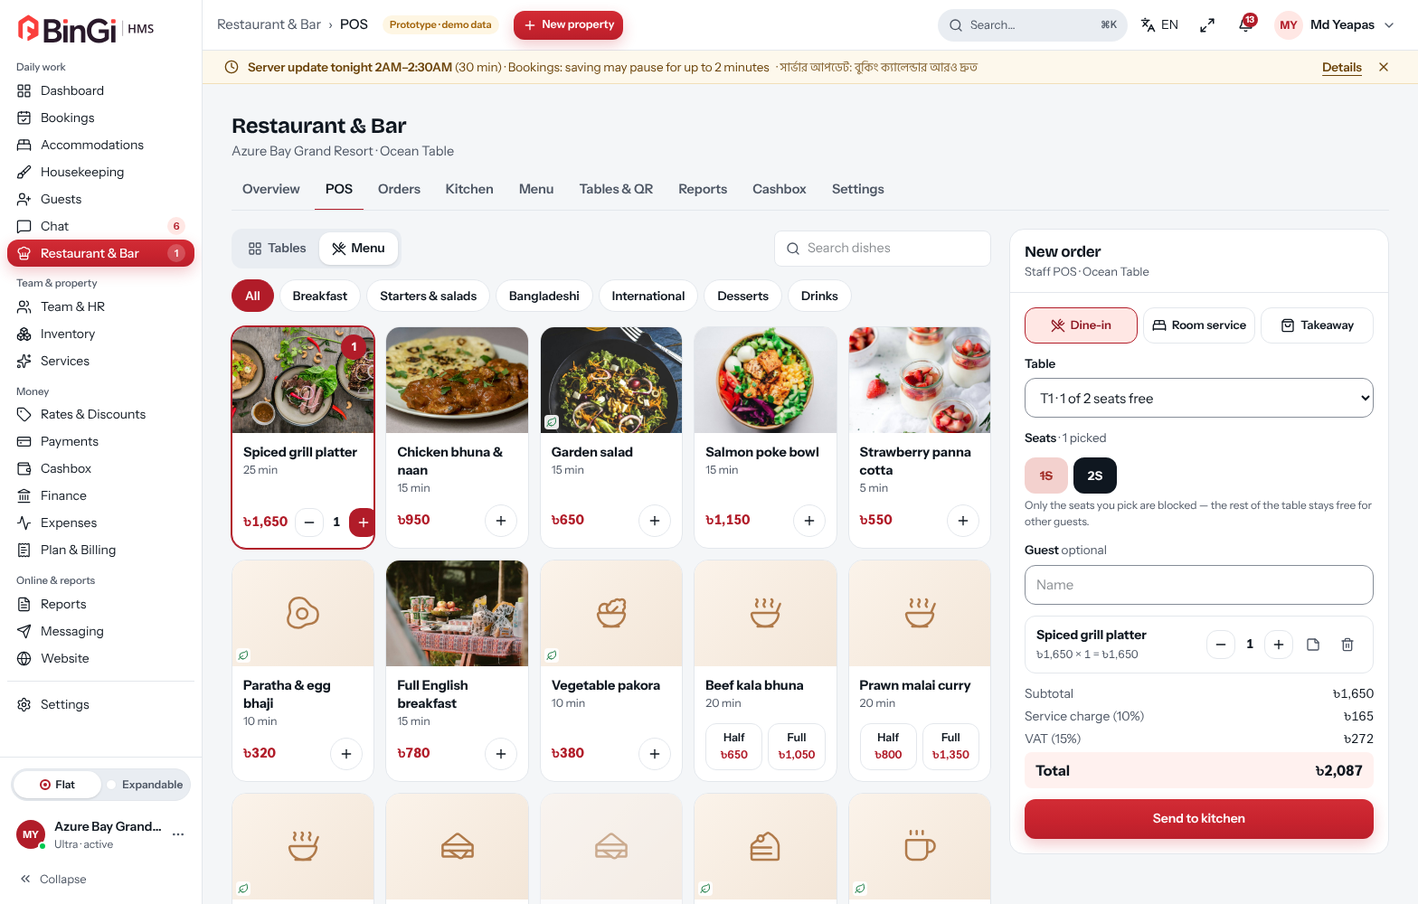
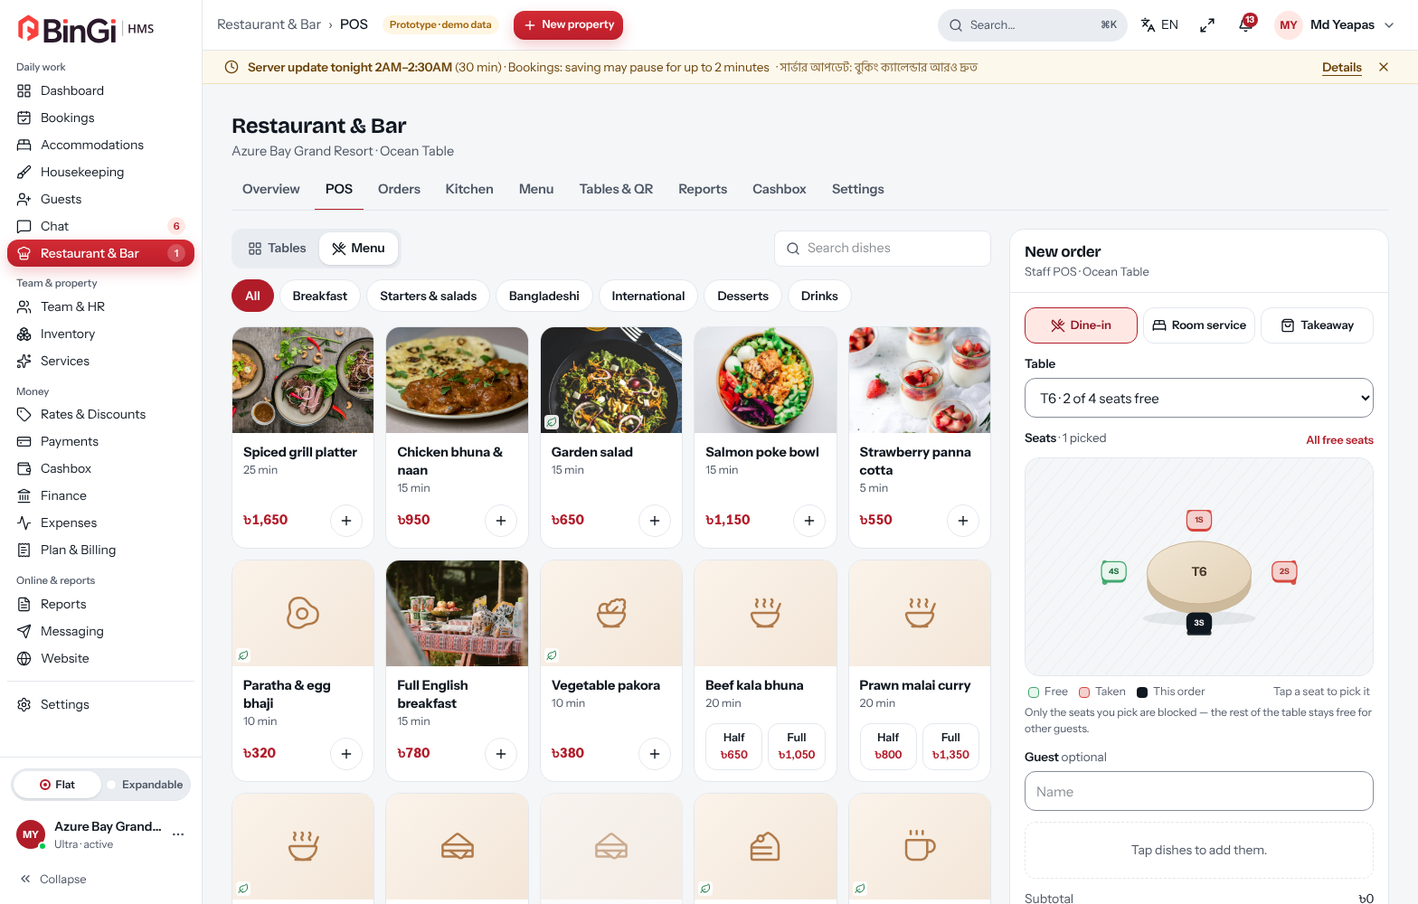
Restaurant: live table drawing (Remotion) — round/long/bar/event tables with coded seats; tap chairs to pick seats in POS; simpler Add table form with live drawing
Claude-Session: https://claude.ai/code/session_01R7iD7nyTUnrEyPYtQ7YvN3

diff --git a/src/components/hms/meals/setup.tsx b/src/components/hms/meals/setup.tsx
@@ -3,13 +3,14 @@
 import clsx from "clsx";
 import { useEffect, useState } from "react";
 import QRCode from "qrcode";
-import { BedDouble, Camera, ImagePlus, Pencil, Plus, QrCode, Search, Trash2, UtensilsCrossed } from "lucide-react";
+import { BedDouble, Camera, Crown, ImagePlus, Martini, Minus, PartyPopper, Pencil, Plus, QrCode, Search, Trash2, Trees, UtensilsCrossed } from "lucide-react";
 import { PLACE_KIND, isSeated, seatCodesOf, sharesSeats, tk, type Category, type Item, type Place, type PlaceKind } from "@/lib/meals/seed";
 import { uid } from "@/lib/meals/store";
 import { PhotoButton } from "../photo";
 import { Sheet, btnLine, btnPrimary, input, lbl } from "../guests/ui";
 import { MealsFrame } from "./frame";
 import { Dish, useRestaurant, useToast, type Restaurant } from "./shared";
+import { SeatLegend, TablePreview } from "./table-preview";
 
 const card = "rounded-2xl border border-hms-line bg-white";
 function Switch({ on, onChange, label }: { on: boolean; onChange: () => void; label: string }) {
@@ -140,6 +141,7 @@ function ItemSheet({ r, it, onClose, onDone }: { r: Restaurant; it?: Item; onClo
 // =================== Tables & QR ===================
 const KIND_LABEL: Record<PlaceKind, string> = Object.fromEntries(Object.entries(PLACE_KIND).map(([k, v]) => [k, v.label])) as Record<PlaceKind, string>;
 type Group = "seated" | "room" | "general";
+const KIND_ICON: Record<PlaceKind, typeof UtensilsCrossed> = { table: UtensilsCrossed, private: Crown, bar: Martini, event: PartyPopper, room: BedDouble, general: Trees };
 const groupOf = (k: PlaceKind): Group => (k === "room" ? "room" : k === "general" ? "general" : "seated");
 export function TablesPage() {
   const r = useRestaurant();
@@ -199,24 +201,34 @@ function PlaceSheet({ r, p, onClose, onDone }: { r: Restaurant; p?: Place; onClo
     <Sheet title={p ? `Edit ${p.name}` : "Add table or QR"} sub="Each table, room or spot gets its own QR" onClose={onClose}
       footer={<><button onClick={onClose} className={clsx(btnLine, "flex-1")}>Cancel</button><button onClick={save} className={clsx(btnPrimary, "flex-[1.4]")}>Save</button></>}>
       <div className="space-y-4">
+        {seated ? <TablePreview kind={f.kind} name={f.name.trim() || "T?"} codes={shown} caption={<><SeatLegend /><span className="tabular-nums">{shown.length} seats · {f.kind === "private" ? "whole table" : sharesSeats({ ...f, shared: f.shared }) ? "shared" : "whole table"}</span></>} />
+          : <div className="flex items-center gap-3 rounded-2xl border border-[#e3e7ec] bg-[#f4f6f8] p-4"><span className="grid size-12 place-items-center rounded-xl bg-white text-hms-muted ring-1 ring-hms-line">{f.kind === "room" ? <BedDouble className="size-6" /> : <Trees className="size-6" />}</span><p className="text-[13.5px] text-[#3a414c]"><b className="block text-[14.5px] text-hms-ink">{f.name.trim() || (f.kind === "room" ? "Room 305" : "Pool side")}</b>{PLACE_KIND[f.kind].hint}. No seats — one QR for the whole {f.kind === "room" ? "room" : "spot"}.</p></div>}
         <div><p className={lbl}>Type</p>
-          <div role="radiogroup" aria-label="Type" className="grid grid-cols-2 gap-2">{(Object.keys(PLACE_KIND) as PlaceKind[]).map((x) => (
-            <button key={x} type="button" role="radio" aria-checked={f.kind === x} onClick={() => setF({ ...f, kind: x, seats: PLACE_KIND[x].seated ? f.seats ?? (x === "bar" ? 6 : 4) : undefined, shared: x !== "private" })}
-              className={clsx("rounded-xl border p-2.5 text-left", f.kind === x ? "border-hms-ink shadow-[inset_0_0_0_1px] shadow-hms-ink" : "border-hms-line hover:border-[#858c97]")}>
-              <b className="block text-[13.5px]">{PLACE_KIND[x].label}</b><span className="text-[12px] leading-snug text-hms-muted">{PLACE_KIND[x].hint}</span>
-            </button>))}</div>
+          <div role="radiogroup" aria-label="Type" className="grid grid-cols-3 gap-1.5">{(Object.keys(PLACE_KIND) as PlaceKind[]).map((x) => { const I = KIND_ICON[x]; return (
+            <button key={x} type="button" role="radio" aria-checked={f.kind === x} title={PLACE_KIND[x].hint} onClick={() => setF({ ...f, kind: x, seats: PLACE_KIND[x].seated ? f.seats ?? (x === "bar" ? 6 : 4) : undefined, shared: x !== "private" })}
+              className={clsx("flex h-[68px] flex-col items-center justify-center gap-1 rounded-xl border text-[12.5px] font-semibold", f.kind === x ? "border-hms-ink bg-white shadow-[inset_0_0_0_1px] shadow-hms-ink" : "border-hms-line text-[#4d5664] hover:border-[#858c97]")}>
+              <I className="size-5" aria-hidden />{PLACE_KIND[x].label.replace(" / VIP table", " / VIP").replace(" table", "")}
+            </button>); })}</div>
+          <p className="mt-1.5 text-[12.5px] text-hms-muted">{PLACE_KIND[f.kind].hint}</p>
         </div>
-        <div><label htmlFor="pl-n" className={lbl}>Name</label><input id="pl-n" autoFocus value={f.name} onChange={(x) => setF({ ...f, name: x.target.value })} placeholder={f.kind === "room" ? "e.g. Room 305" : f.kind === "general" ? "e.g. Pool side" : f.kind === "bar" ? "e.g. Bar" : f.kind === "event" ? "e.g. Banquet hall" : "e.g. T9"} className={input} />{tried && (dup ? <p className="mt-1 text-[13px] font-medium text-[#c81e1e]">This name is already used</p> : !f.name.trim() && <p className="mt-1 text-[13px] font-medium text-[#c81e1e]">Enter a name</p>)}</div>
-        {seated && <div className="rounded-xl bg-[#f7f8fa] p-3">
-          <div className="grid grid-cols-[110px_1fr] gap-3">
-            <div><label htmlFor="pl-s" className={lbl}>Seats</label><input id="pl-s" inputMode="numeric" value={f.seats ?? ""} onChange={(x) => setF({ ...f, seats: Math.min(40, Number(x.target.value.replace(/\D/g, "")) || 0) || undefined })} className={input} /></div>
-            <div><label htmlFor="pl-c" className={lbl}>Seat codes <span className="font-normal text-hms-muted">optional</span></label><input id="pl-c" value={codes} onChange={(x) => setCodes(x.target.value)} placeholder={`${Array.from({ length: Math.min(f.seats ?? 4, 4) }, (_, i) => `${i + 1}S`).join(", ")}…`} className={input} /></div>
-          </div>
-          {tried && badSeats && <p className="mt-1 text-[13px] font-medium text-[#c81e1e]">{!(f.seats ?? 0) ? "Enter the number of seats" : dupCode ? "Each seat code must be different" : `Give ${f.seats} codes, or leave codes empty for ${f.seats ? `1S…${f.seats}S` : "1S, 2S…"}`}</p>}
-          <div className="mt-2 flex flex-wrap gap-1">{shown.map((c) => <span key={c} className="grid h-7 min-w-9 place-items-center rounded-md border border-[#86cfa3] bg-white px-1.5 text-[12px] font-bold text-[#16693a]">{c}</span>)}</div>
-          {(f.kind === "table" || f.kind === "event") && <label className="mt-3 flex items-start gap-2.5 text-[13.5px]"><input type="checkbox" checked={f.shared !== false} onChange={(x) => setF({ ...f, shared: x.target.checked })} className="mt-0.5 size-4 accent-[#b11c29]" /><span><b>Share the table</b><span className="block text-[12.5px] text-hms-muted">An order takes only the seats it uses; other guests can order on the free seats. Off = one order takes the whole table.</span></span></label>}
-          {f.kind === "private" && <p className="mt-2 text-[12.5px] text-hms-muted">A private table is taken whole by one order.</p>}
-        </div>}
+        <div className="grid grid-cols-[1fr_auto] items-end gap-3">
+          <div><label htmlFor="pl-n" className={lbl}>Name</label><input id="pl-n" autoFocus value={f.name} onChange={(x) => setF({ ...f, name: x.target.value })} placeholder={f.kind === "room" ? "e.g. Room 305" : f.kind === "general" ? "e.g. Pool side" : f.kind === "bar" ? "e.g. Bar" : f.kind === "event" ? "e.g. Banquet hall" : "e.g. T9"} className={input} /></div>
+          {seated && <div><p className={lbl}>Seats</p><div className="flex h-11 items-center rounded-xl border border-hms-line">
+            <button type="button" aria-label="One seat less" onClick={() => setF({ ...f, seats: Math.max(1, (f.seats ?? 1) - 1) })} className="grid h-full w-10 place-items-center hover:bg-hms-hover"><Minus className="size-4" /></button>
+            <span className="w-8 text-center text-[16px] font-bold tabular-nums" aria-live="polite">{f.seats ?? 0}</span>
+            <button type="button" aria-label="One seat more" onClick={() => setF({ ...f, seats: Math.min(f.kind === "bar" ? 12 : 16, (f.seats ?? 0) + 1) })} className="grid h-full w-10 place-items-center hover:bg-hms-hover"><Plus className="size-4" /></button>
+          </div></div>}
+        </div>
+        {tried && (dup ? <p className="-mt-2 text-[13px] font-medium text-[#c81e1e]">This name is already used</p> : !f.name.trim() && <p className="-mt-2 text-[13px] font-medium text-[#c81e1e]">Enter a name</p>)}
+        {seated && <>
+          {(f.kind === "table" || f.kind === "event") && <label className="flex items-start gap-2.5 rounded-xl border border-hms-line p-3 text-[13.5px]"><input type="checkbox" checked={f.shared !== false} onChange={(x) => setF({ ...f, shared: x.target.checked })} className="mt-0.5 size-4 accent-[#b11c29]" /><span><b>Share the table</b><span className="block text-[12.5px] text-hms-muted">An order blocks only its seats; other guests can sit on the free ones. Off = one order takes the whole table.</span></span></label>}
+          <details className="rounded-xl border border-hms-line px-3 py-2.5 text-[13.5px]" open={!!codes}>
+            <summary className="cursor-pointer font-semibold">Seat codes <span className="font-normal text-hms-muted">· {shown.join(", ")}</span></summary>
+            <input id="pl-c" aria-label="Custom seat codes" value={codes} onChange={(x) => setCodes(x.target.value)} placeholder={`Leave empty for 1S…${f.seats ?? 4}S, or e.g. A1, A2, A3`} className={clsx(input, "mt-2")} />
+            <p className="mt-1 text-[12px] text-hms-muted">Comma-separated, one per seat.</p>
+          </details>
+          {tried && badSeats && <p className="text-[13px] font-medium text-[#c81e1e]">{!(f.seats ?? 0) ? "Add at least one seat" : dupCode ? "Each seat code must be different" : `Give ${f.seats} codes, or leave codes empty`}</p>}
+        </>}
         <div><label htmlFor="pl-note" className={lbl}>Note <span className="font-normal text-hms-muted">optional</span></label><input id="pl-note" value={f.note ?? ""} onChange={(x) => setF({ ...f, note: x.target.value || undefined })} placeholder="e.g. Beach side" className={input} /></div>
       </div>
     </Sheet>

diff --git a/src/components/hms/meals/table-scene.tsx b/src/components/hms/meals/table-scene.tsx
@@ -1,0 +1,118 @@
+"use client";
+// Table drawing for Restaurant & Bar (Remotion composition, same style as the onboarding property drawing).
+// The table and its seats build in (frame-driven springs, no CSS transitions); each seat shows its code (1S, 2S…)
+// and state: free (green), taken by an open order (red), picked for this order (dark). Seats can be tapped.
+import { AbsoluteFill, interpolate, spring, useCurrentFrame, useVideoConfig } from "remotion";
+import type { PlaceKind } from "@/lib/meals/seed";
+
+export const TW = 480, TH = 300;
+export type TableSceneProps = {
+  kind: PlaceKind; name: string; codes: string[];
+  taken?: string[]; picked?: string[];
+  /** Tap a seat (POS: pick / unpick). Left out = drawing only. */
+  onSeat?: (code: string) => void;
+};
+export const sceneFrames = (n: number) => 16 + n * 3 + 12;
+
+type Seat = { code: string; x: number; y: number; rot: number; stool?: boolean };
+const CX = TW / 2, CY = TH / 2 + 8, SQ = 0.6; // SQ: depth squash — the table is seen from above at an angle
+
+/** Where the seats go for each kind and seat count. */
+function layout(kind: PlaceKind, n: number): { shape: "round" | "long" | "bar"; w: number; h: number; seats: Omit<Seat, "code">[] } {
+  if (kind === "bar") {
+    const w = Math.min(400, 70 + n * 52);
+    return { shape: "bar", w, h: 46, seats: Array.from({ length: n }, (_, i) => ({ x: CX - w / 2 + (w / n) * (i + 0.5), y: CY + 62, rot: 0, stool: true })) };
+  }
+  if (kind === "private" || (kind === "table" && n <= 4) || n <= 2) {
+    const r = n <= 2 ? 62 : n <= 4 ? 72 : 84;
+    const R = r + 46;
+    return { shape: "round", w: r * 2, h: r * 2 * SQ, seats: Array.from({ length: n }, (_, i) => { const a = (i / n) * Math.PI * 2 - Math.PI / 2; return { x: CX + Math.cos(a) * R, y: CY + Math.sin(a) * R * SQ, rot: (a * 180) / Math.PI + 270 }; }) };
+  }
+  // Long table: seats along both sides, one at each end when the count is odd.
+  const ends = n % 2 === 1 ? 1 : 0;
+  const side = Math.floor((n - ends) / 2);
+  const w = Math.min(380, 60 + side * 62), h = 92 * SQ + 18;
+  const seats: Omit<Seat, "code">[] = [];
+  for (let i = 0; i < side; i++) seats.push({ x: CX - w / 2 + (w / side) * (i + 0.5), y: CY - h / 2 - 34, rot: 180 });
+  for (let i = 0; i < side; i++) seats.push({ x: CX - w / 2 + (w / side) * (i + 0.5), y: CY + h / 2 + 34, rot: 0 });
+  if (ends) seats.push({ x: CX + w / 2 + 44, y: CY, rot: -90 });
+  return { shape: "long", w, h, seats };
+}
+
+function useAppear(at: number) {
+  const frame = useCurrentFrame();
+  const { fps } = useVideoConfig();
+  return spring({ frame: frame - at, fps, config: { damping: 16, stiffness: 160, mass: 0.7 } });
+}
+
+export const TableScene: React.FC<TableSceneProps> = ({ kind, name, codes, taken = [], picked = [], onSeat }) => {
+  const L = layout(kind, codes.length);
+  const seats: Seat[] = L.seats.map((s, i) => ({ ...s, code: codes[i] }));
+  // Back row first so front chairs overlap the table edge, like a real view.
+  const back = seats.filter((s) => s.y < CY), front = seats.filter((s) => s.y >= CY);
+  return (
+    <AbsoluteFill style={{ backgroundColor: "#f4f6f8", fontFamily: "inherit" }}>
+      <svg viewBox={`0 0 ${TW} ${TH}`} width="100%" height="100%" role="img" aria-label={`${name}: ${codes.length} seats`}>
+        <defs>
+          <pattern id="tsFloor" width="40" height="24" patternUnits="userSpaceOnUse"><rect width="40" height="24" fill="#f4f6f8" /><path d="M0 24 L20 0 M20 24 L40 0" stroke="#e6e9ee" strokeWidth="1" /></pattern>
+          <linearGradient id="tsWood" x1="0" y1="0" x2="1" y2="1"><stop offset="0" stopColor="#f1e6d4" /><stop offset="1" stopColor="#e2d1b6" /></linearGradient>
+        </defs>
+        <rect width={TW} height={TH} fill="url(#tsFloor)" />
+        {back.map((s, i) => <Chair key={s.code} s={s} at={10 + i * 3} taken={taken.includes(s.code)} picked={picked.includes(s.code)} onSeat={onSeat} />)}
+        <Top L={L} kind={kind} name={name} />
+        {front.map((s, i) => <Chair key={s.code} s={s} at={10 + (back.length + i) * 3} taken={taken.includes(s.code)} picked={picked.includes(s.code)} onSeat={onSeat} />)}
+      </svg>
+    </AbsoluteFill>
+  );
+};
+
+function Top({ L, kind, name }: { L: ReturnType<typeof layout>; kind: PlaceKind; name: string }) {
+  const p = useAppear(0);
+  const frame = useCurrentFrame();
+  const drop = interpolate(p, [0, 1], [-18, 0]);
+  const depth = L.shape === "bar" ? 26 : 14;
+  return (
+    <g opacity={interpolate(frame, [0, 6], [0, 1], { extrapolateRight: "clamp" })} transform={`translate(0 ${drop})`}>
+      {/* shadow */}
+      <ellipse cx={CX} cy={CY + L.h / 2 + depth + 6} rx={L.w / 2 + 6} ry={10} fill="#0f1720" opacity={0.07 * p} />
+      {L.shape === "round" ? <>
+        <ellipse cx={CX} cy={CY + depth} rx={L.w / 2} ry={L.h / 2} fill="#cdb99c" />
+        <rect x={CX - L.w / 2} y={CY} width={L.w} height={depth} fill="#cdb99c" />
+        <ellipse cx={CX} cy={CY} rx={L.w / 2} ry={L.h / 2} fill="url(#tsWood)" stroke="#c9b28f" strokeWidth={1.2} />
+      </> : <>
+        <rect x={CX - L.w / 2} y={CY - L.h / 2 + depth} width={L.w} height={L.h} rx={L.shape === "bar" ? 10 : 14} fill={L.shape === "bar" ? "#4a3b2c" : "#cdb99c"} />
+        <rect x={CX - L.w / 2} y={CY - L.h / 2} width={L.w} height={L.h} rx={L.shape === "bar" ? 10 : 14} fill={L.shape === "bar" ? "#6b5640" : "url(#tsWood)"} stroke={L.shape === "bar" ? "#4a3b2c" : "#c9b28f"} strokeWidth={1.2} />
+      </>}
+      <text x={CX} y={CY + 5} textAnchor="middle" fontSize={17} fontWeight={800} fill={L.shape === "bar" ? "#fff" : "#4a3b2c"}>{name}</text>
+      {kind === "private" && <g transform={`translate(${CX - 20} ${CY - L.h / 2 - 2})`}><rect width={40} height={16} rx={8} fill="#b11c29" /><text x={20} y={11.5} textAnchor="middle" fontSize={9.5} fontWeight={800} fill="#fff">VIP</text></g>}
+      {kind === "event" && <text x={CX} y={CY + 20} textAnchor="middle" fontSize={10} fontWeight={700} fill="#8a6f4d">EVENT</text>}
+    </g>
+  );
+}
+
+function Chair({ s, at, taken, picked, onSeat }: { s: Seat; at: number; taken: boolean; picked: boolean; onSeat?: (c: string) => void }) {
+  const p = useAppear(at);
+  const fill = picked ? "#0f1720" : taken ? "#f3d1ce" : "#e8f6ee";
+  const edge = picked ? "#0f1720" : taken ? "#d6453c" : "#3fa66b";
+  const ink = picked ? "#ffffff" : taken ? "#a3302a" : "#16693a";
+  const can = !!onSeat && !taken;
+  return (
+    <g transform={`translate(${s.x} ${s.y}) scale(${p})`} opacity={p} style={{ cursor: can ? "pointer" : "default" }} onClick={can ? () => onSeat!(s.code) : undefined}
+      role={onSeat ? "button" : undefined} aria-label={onSeat ? `Seat ${s.code}${taken ? ", taken" : picked ? ", picked" : ", free"}` : undefined} aria-pressed={onSeat ? picked : undefined}>
+      {s.stool ? <>
+        <rect x={-3} y={6} width={6} height={18} fill="#9aa1ad" />
+        <ellipse cx={0} cy={26} rx={13} ry={5} fill="#0f1720" opacity={0.08} />
+        <ellipse cx={0} cy={4} rx={19} ry={10} fill={edge} />
+        <ellipse cx={0} cy={0} rx={19} ry={10} fill={fill} stroke={edge} strokeWidth={1.5} />
+        <text x={0} y={4} textAnchor="middle" fontSize={10.5} fontWeight={800} fill={ink}>{s.code}</text>
+      </> : <>
+        <g transform={`rotate(${s.rot})`}>
+          <rect x={-17} y={9} width={34} height={7} rx={3.5} fill={edge} opacity={0.9} />
+        </g>
+        <rect x={-17} y={-12} width={34} height={26} rx={8} fill={edge} />
+        <rect x={-17} y={-15} width={34} height={26} rx={8} fill={fill} stroke={edge} strokeWidth={1.5} />
+        <text x={0} y={2} textAnchor="middle" fontSize={11} fontWeight={800} fill={ink}>{s.code}</text>
+      </>}
+    </g>
+  );
+}

diff --git a/src/components/hms/meals/pos.tsx b/src/components/hms/meals/pos.tsx
@@ -4,7 +4,7 @@
 import clsx from "clsx";
 import { useMemo, useRef, useState } from "react";
 import { useSearchParams } from "next/navigation";
-import { BedDouble, CircleCheck, Clock, LayoutGrid, Minus, Plus, Printer, Search, ShoppingBag, StickyNote, Trash2, UtensilsCrossed, X } from "lucide-react";
+import { BedDouble, CircleCheck, LayoutGrid, Minus, Plus, Printer, Search, ShoppingBag, StickyNote, Trash2, UtensilsCrossed, X } from "lucide-react";
 import { TODAY } from "@/lib/rooms/store";
 import { PLACE_KIND, SERVICE_LABEL, bill, isSeated, roomServiceOutlet, seatsTaken, sharesSeats, tk, type Item, type Line, type Order, type Place, type Service } from "@/lib/meals/seed";
 import { ageOf } from "@/lib/meals/store";
@@ -12,6 +12,7 @@ import { btnLine, btnPrimary, input, lbl } from "../guests/ui";
 import { MealsFrame } from "./frame";
 import { Dish, PaySheet, SERVICE_ICON, StatusChip, useRestaurant, useToast, type Restaurant } from "./shared";
 import { billHtml, kotHtml, printHtml } from "./print";
+import { SeatLegend, TablePreview } from "./table-preview";
 
 const key = (l: Pick<Line, "item" | "size">) => `${l.item}|${l.size ?? ""}`;
 const openOrder = (o: Order) => o.at.slice(0, 10) === TODAY && o.pay === "unpaid" && !["cancelled", "declined"].includes(o.status);
@@ -194,9 +195,9 @@ function Pos({ r, startOrder }: { r: Restaurant; startOrder: string | null }) {
                 {service === "dinein" && placeObj && seatInfo(placeObj).all.length > 0 && (() => { const i = seatInfo(placeObj); const share = sharesSeats(placeObj); return (
                   <div>
                     <div className="mb-1.5 flex items-center justify-between"><p className={lbl}>Seats <span className="font-normal text-hms-muted">{seats.length ? `· ${seats.length} picked` : "· pick who is ordering"}</span></p>{share && i.free.length > 1 && <button type="button" onClick={() => setSeats(seats.length === i.free.length ? [] : i.free)} className="text-[12.5px] font-semibold text-hms-red">{seats.length === i.free.length ? "Clear" : "All free seats"}</button>}</div>
-                    <div role="group" aria-label="Seats" className="flex flex-wrap gap-1.5">{i.all.map((c) => { const taken = i.taken.has(c); const on = seats.includes(c); return (
-                      <button key={c} type="button" disabled={taken || !share} aria-pressed={on} onClick={() => setSeats(on ? seats.filter((x) => x !== c) : [...seats, c].sort((a, b) => i.all.indexOf(a) - i.all.indexOf(b)))}
-                        className={clsx("h-10 min-w-12 rounded-lg px-2 text-[13.5px] font-bold", taken ? "cursor-not-allowed bg-[#f3d1ce] text-[#a3302a] line-through" : on ? "bg-hms-ink text-white" : "border border-hms-line bg-white hover:border-hms-ink", !share && !taken && "!bg-hms-ink !text-white")}>{c}</button>); })}</div>
+                    <TablePreview kind={placeObj.kind} name={placeObj.name} codes={i.all} taken={[...i.taken]} picked={share ? seats : i.free}
+                      onSeat={share ? (c) => setSeats(seats.includes(c) ? seats.filter((x) => x !== c) : [...seats, c].sort((a, b) => i.all.indexOf(a) - i.all.indexOf(b))) : undefined}
+                      caption={<><SeatLegend picked /><span>{share ? "Tap a seat to pick it" : "Whole table"}</span></>} />
                     <p className="mt-1 text-[12px] text-hms-muted">{share ? "Only the seats you pick are blocked — the rest of the table stays free for other guests." : `${PLACE_KIND[placeObj.kind].label}: the whole table is taken by this order.`}</p>
                   </div>); })()}
                 {service === "room" && <div><label htmlFor="pos-r" className={lbl}>Room</label><select id="pos-r" value={room} onChange={(e) => setRoom(e.target.value)} className={input}><option value="">Choose the room</option>{r.inHouse.map((g) => <option key={g.room} value={g.room}>Room {g.room} · {g.guest}</option>)}</select></div>}

diff --git a/src/components/hms/meals/table-preview.tsx b/src/components/hms/meals/table-preview.tsx
@@ -1,0 +1,41 @@
+"use client";
+// Live table drawing (Remotion <Player> playing TableScene). It builds in when the table type or seats change;
+// picking a seat does not replay — the finished frame just shows the new state. Reduced motion: no animation.
+import { Player } from "@remotion/player";
+import { useEffect, useState } from "react";
+import { TH, TW, TableScene, sceneFrames, type TableSceneProps } from "./table-scene";
+
+function useReducedMotion() {
+  const [r, setR] = useState(false);
+  useEffect(() => { const m = window.matchMedia("(prefers-reduced-motion: reduce)"); const on = () => setR(m.matches); on(); m.addEventListener("change", on); return () => m.removeEventListener("change", on); }, []);
+  return r;
+}
+
+export function TablePreview({ className, caption, ...props }: TableSceneProps & { className?: string; caption?: React.ReactNode }) {
+  const reduced = useReducedMotion();
+  const dur = sceneFrames(props.codes.length);
+  // A new table type or seat count rebuilds the drawing from the start (fresh Player); picking a seat does not.
+  const sig = `${props.kind}|${props.codes.join(",")}`;
+  return (
+    <figure className={className}>
+      <div className="overflow-hidden rounded-2xl border border-[#e3e7ec] bg-[#f4f6f8]">
+        <Player key={sig} component={TableScene} inputProps={props} durationInFrames={dur} fps={30} compositionWidth={TW} compositionHeight={TH}
+          style={{ width: "100%", aspectRatio: `${TW} / ${TH}`, display: "block" }}
+          controls={false} loop={false} moveToBeginningWhenEnded={false} initiallyMuted autoPlay={!reduced} initialFrame={reduced ? dur - 1 : 0}
+          clickToPlay={false} doubleClickToFullscreen={false} spaceKeyToPlayOrPause={false} initiallyShowControls={false} acknowledgeRemotionLicense />
+      </div>
+      {caption && <figcaption className="mt-2 flex flex-wrap items-center justify-between gap-2 px-1 text-[12.5px] text-[#5b6270]">{caption}</figcaption>}
+    </figure>
+  );
+}
+
+/** Legend under a table drawing. */
+export function SeatLegend({ picked }: { picked?: boolean }) {
+  return (
+    <span className="flex flex-wrap items-center gap-x-3 gap-y-1">
+      <span className="inline-flex items-center gap-1.5"><span className="size-3 rounded border border-[#3fa66b] bg-[#e8f6ee]" />Free</span>
+      <span className="inline-flex items-center gap-1.5"><span className="size-3 rounded border border-[#d6453c] bg-[#f3d1ce]" />Taken</span>
+      {picked && <span className="inline-flex items-center gap-1.5"><span className="size-3 rounded bg-[#0f1720]" />This order</span>}
+    </span>
+  );
+}

diff --git a/docs/design/restaurant-seats/README.md b/docs/design/restaurant-seats/README.md
@@ -13,6 +13,14 @@ Problem (live): one open order marks the whole table busy; a 4-seat table with 1
 - Bill / KOT / order lists show "T1 · 2S".
 - Older orders with no seats count as the whole table.
 
+## Live table drawing (Remotion)
+- `table-scene.tsx` (Remotion composition, same style as the onboarding property drawing) + `table-preview.tsx` (`<Player>`).
+- Shapes: round (≤ 4 seats, VIP), long table with chairs on both sides (5+), bar counter with stools, event table.
+- Each chair shows its code and state — free (green), taken (red), this order (dark). The table builds in when type
+  or seat count changes; picking a seat updates instantly. Reduced motion = no animation.
+- Used in: Tables & QR › Add/Edit (live drawing on top, seat stepper, type tiles, seat codes folded) and
+  POS › New order (tap chairs on the drawing to pick seats).
+
 ## Place types (Tables & QR)
 | Type | Seats | Sharing |
 |---|---|---|
